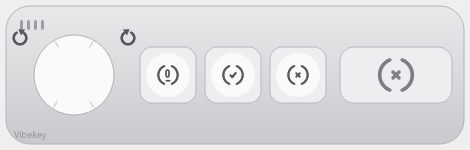
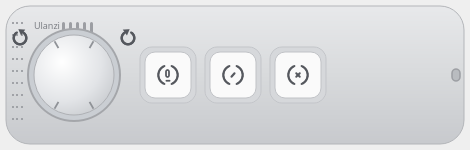
prototype: device art per build photos — square caps, aluminium knob + ring groove, mesh/Ulanzi/mic-slots, strap hole; accept glyph = slash

diff --git a/prototype_panel_picker.py b/prototype_panel_picker.py
@@ -215,9 +215,11 @@ class BaseWindow(QMainWindow):
 
 class KeypadWidget(QFrame):
     """Drawn to match the real AU05 (ulanzi.com product photos): aluminium
-    bar, knob over the mic/speaker end, three round-capped keys in square
-    housings (⏻ ⊘ ⊗), long ⊗ end-bar, Vibekey logo. Interactive zones are
-    transparent SimButtons positioned over the art."""
+    bar; speaker mesh + Ulanzi logo + five mic slots at the far end;
+    aluminium knob with recessed ring groove (LED ring lives there) and grip
+    notches; three square white keycaps (mic / accept-slash / cancel-cross,
+    each a central glyph between two open arcs); strap hole at the edge.
+    Interactive zones are transparent SimButtons positioned over the art."""
 
     W, H = 470, 150
 
@@ -257,40 +259,45 @@ class KeypadWidget(QFrame):
 
     def paintEvent(self, e):
         import math
-        from PySide6.QtGui import QLinearGradient
+        from PySide6.QtGui import QLinearGradient, QRadialGradient
         p = QPainter(self)
         p.setRenderHint(QPainter.Antialiasing)
         g = QLinearGradient(0, 0, 0, self.H)
         g.setColorAt(0, QColor("#e9eaec")); g.setColorAt(0.5, QColor("#d8dadc")); g.setColorAt(1, QColor("#c6c8cc"))
         p.setPen(QColor("#b3b5b9")); p.setBrush(g)
         p.drawRoundedRect(6, 6, self.W - 12, self.H - 12, 24, 24)
-        # knob with grip notches
-        p.setPen(QColor("#aeb0b4")); p.setBrush(QColor("#fafafa"))
+        # speaker mesh band at the far (left) end
+        p.setPen(Qt.NoPen); p.setBrush(QColor("#8f9297"))
+        for col in range(3):
+            for row in range(9):
+                p.drawEllipse(12 + col * 4.5, 22 + row * 12, 2.4, 2.4)
+        p.setPen(QColor("#7c7f85")); p.setFont(QFont("sans", 7))
+        p.drawText(34, 20, 60, 12, Qt.AlignLeft | Qt.AlignVCenter, "Ulanzi")
+        # mic slots between logo and knob
+        p.setPen(Qt.NoPen); p.setBrush(QColor("#9c9ea3"))
+        for i in range(5):
+            p.drawRoundedRect(62 + i * 7, 22, 3, 12, 1.5, 1.5)
+        # knob: recess groove + aluminium dome + dark grip ticks
+        p.setPen(QPen(QColor("#a4a6aa"), 2)); p.setBrush(QColor("#caced3"))
+        p.drawEllipse(74 - 46, 75 - 46, 92, 92)
+        kg = QRadialGradient(62, 62, 66, 62, 62)
+        kg.setColorAt(0, QColor("#ffffff")); kg.setColorAt(0.6, QColor("#e2e4e7")); kg.setColorAt(1, QColor("#c3c6ca"))
+        p.setPen(QColor("#aeb0b4")); p.setBrush(kg)
         p.drawEllipse(74 - 40, 75 - 40, 80, 80)
-        p.setPen(QColor("#b9bcc0"))
+        p.setPen(QPen(QColor("#8f9297"), 1.8))
         for ang in (60, 120, 240, 300):
             x1, y1 = 74 + 32 * math.cos(math.radians(ang)), 75 - 32 * math.sin(math.radians(ang))
             x2, y2 = 74 + 38 * math.cos(math.radians(ang)), 75 - 38 * math.sin(math.radians(ang))
-            p.drawLine(int(x1), int(y1), int(x2), int(y2))
-        # key housings (square rounded) + white round caps
+            p.drawLine(QPointF(x1, y1), QPointF(x2, y2))
+        # three square white keycaps in square housings
         for cx in (168, 233, 298):
-            p.setPen(QColor("#b6b8bc")); p.setBrush(QColor("#eceef0"))
+            p.setPen(QColor("#c3c5c9")); p.setBrush(QColor("#d6d8db"))
             p.drawRoundedRect(cx - 28, 75 - 28, 56, 56, 12, 12)
-            p.setPen(Qt.NoPen); p.setBrush(QColor("#fafafa"))
-            p.drawEllipse(cx - 22, 75 - 22, 44, 44)
-        # long end-bar with the same arc-wrapped cross motif
-        p.setPen(QColor("#b6b8bc")); p.setBrush(QColor("#eceef0"))
-        p.drawRoundedRect(340, 47, 112, 56, 14, 14)
-        p.save()
-        p.translate(396 - 22, 75 - 22)
-        draw_cross(p, 44, "#7c7f85")
-        p.restore()
-        # mic slots + logo near the knob end
-        p.setPen(Qt.NoPen); p.setBrush(QColor("#9c9ea3"))
-        for i in range(4):
-            p.drawRoundedRect(20 + i * 7, 20, 3, 10, 1.5, 1.5)
-        p.setPen(QColor("#8f9297")); p.setFont(QFont("sans", 7))
-        p.drawText(14, 128, 90, 12, Qt.AlignLeft, "Vibekey")
+            p.setPen(QColor("#c0c2c6")); p.setBrush(QColor("#fafafa"))
+            p.drawRoundedRect(cx - 23, 75 - 23, 46, 46, 10, 10)
+        # strap hole at the far (right) edge
+        p.setPen(QPen(QColor("#9c9ea3"), 1.5)); p.setBrush(QColor("#b9bcc0"))
+        p.drawRoundedRect(self.W - 18, 75 - 6, 8, 12, 4, 4)
         p.end()
 
 
@@ -320,9 +327,9 @@ class VariantA(BaseWindow):
         body.addLayout(left)
         left.addWidget(KeypadWidget(model, self.edit_assignment))
         left.addWidget(QLabel(
-            "front panel: <b>🎙 mic · ✓ accept · ✕ cancel</b> + knob (per your unit).<br>"
-            "press the drawing to simulate, double-click to edit.<br>"
-            "the long ⊗ end-bar: decorative or a 4th key? — settle it with the <b>probe</b>."))
+            "front panel per product photos: <b>mic · accept · cancel</b> square caps +<br>"
+            "aluminium knob (recessed ring = LED). press the drawing to simulate,<br>"
+            "double-click to edit; the <b>probe</b> settles what your unit really sends."))
         left.addStretch(1)
 
         ovl = QVBoxLayout()
@@ -577,12 +584,11 @@ def draw_mic(p, s, color):
 
 
 def draw_check(p, s, color):
+    """accept cap: diagonal slash (stylised check) between the two arcs."""
     k = s / 28.0
     _arcs(p, s, color)
     p.setPen(_pen(color, 2.4 * k)); p.setBrush(Qt.NoBrush)
-    path = QPainterPath(QPointF(11.3 * k, 14.4 * k))
-    path.lineTo(13.2 * k, 16.4 * k); path.lineTo(16.9 * k, 11.9 * k)
-    p.drawPath(path)
+    p.drawLine(QPointF(12.4 * k, 15.8 * k), QPointF(15.6 * k, 12.2 * k))
 
 
 def draw_cross(p, s, color):
